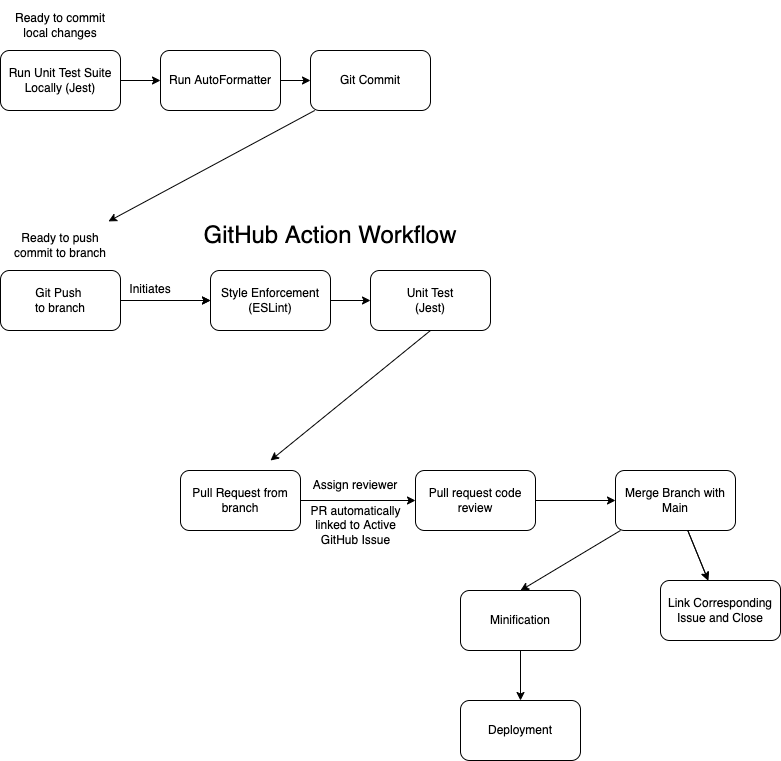
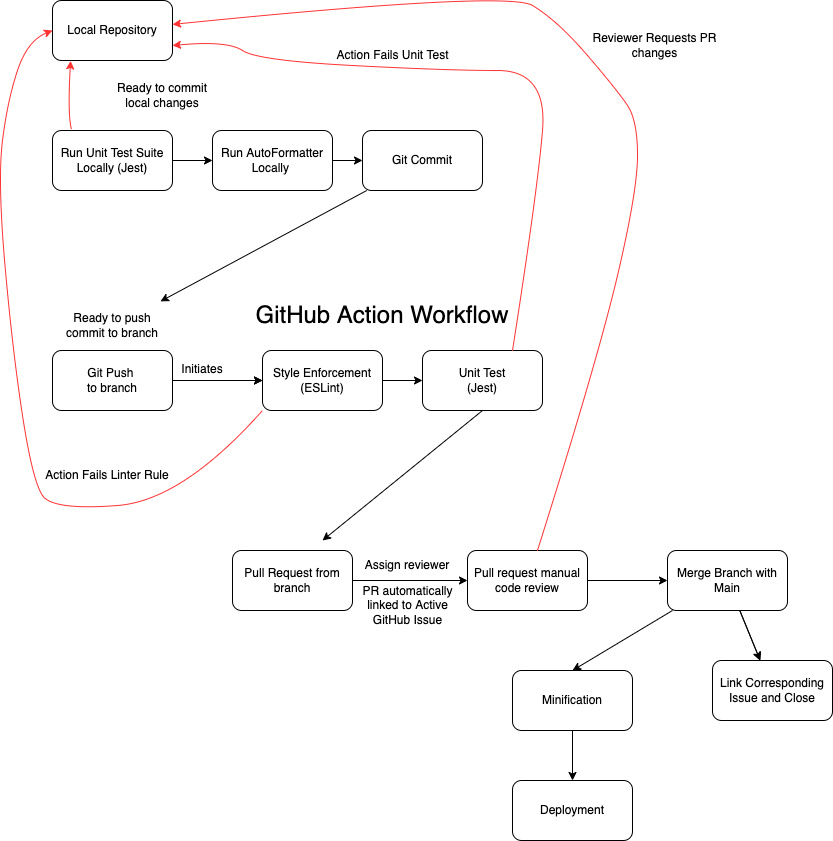
CI/CD pipeline, updated phase1 diagram with Action failure links

diff --git a/admin/cipipeline/phase1.md b/admin/cipipeline/phase1.md
@@ -28,3 +28,5 @@
 * Deployment of website to GitHub Pages (once functional)
 * Adding E2E Jest testing (to be added when application is functional)
 * Automatically linking Pull Request to Github Issue
+* Integrate `Code Climate` as code quality tool
+
